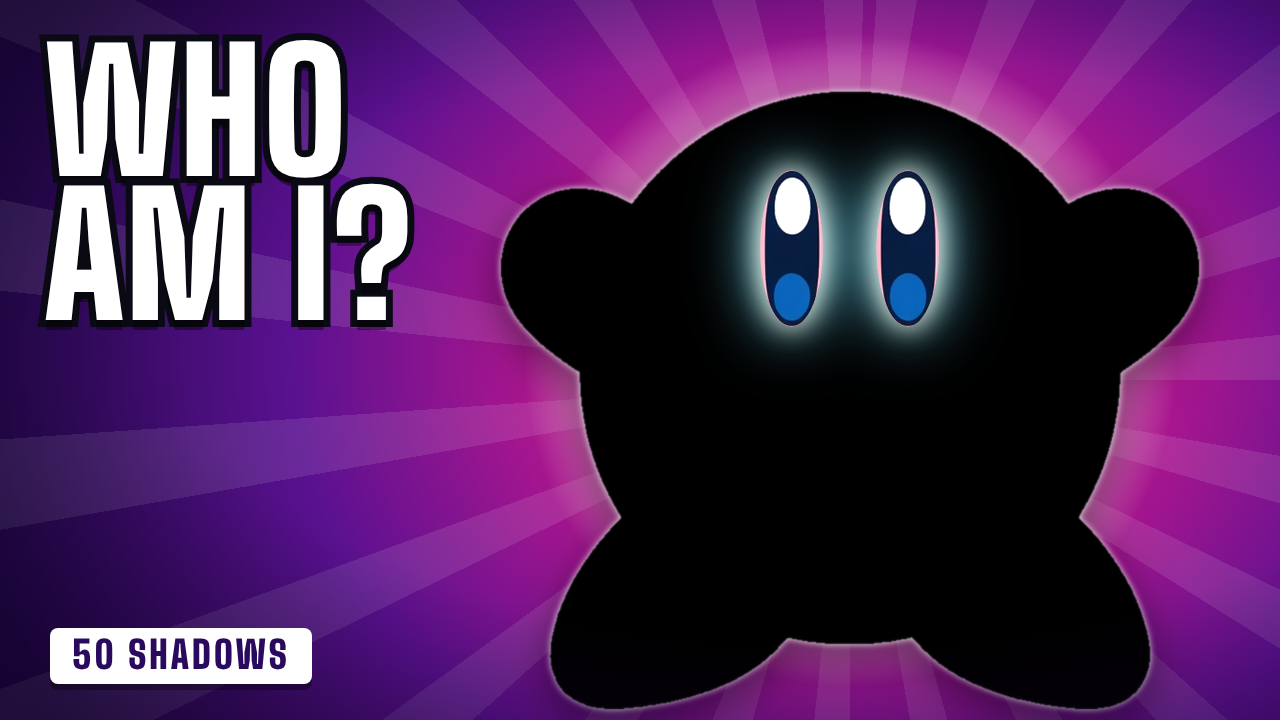
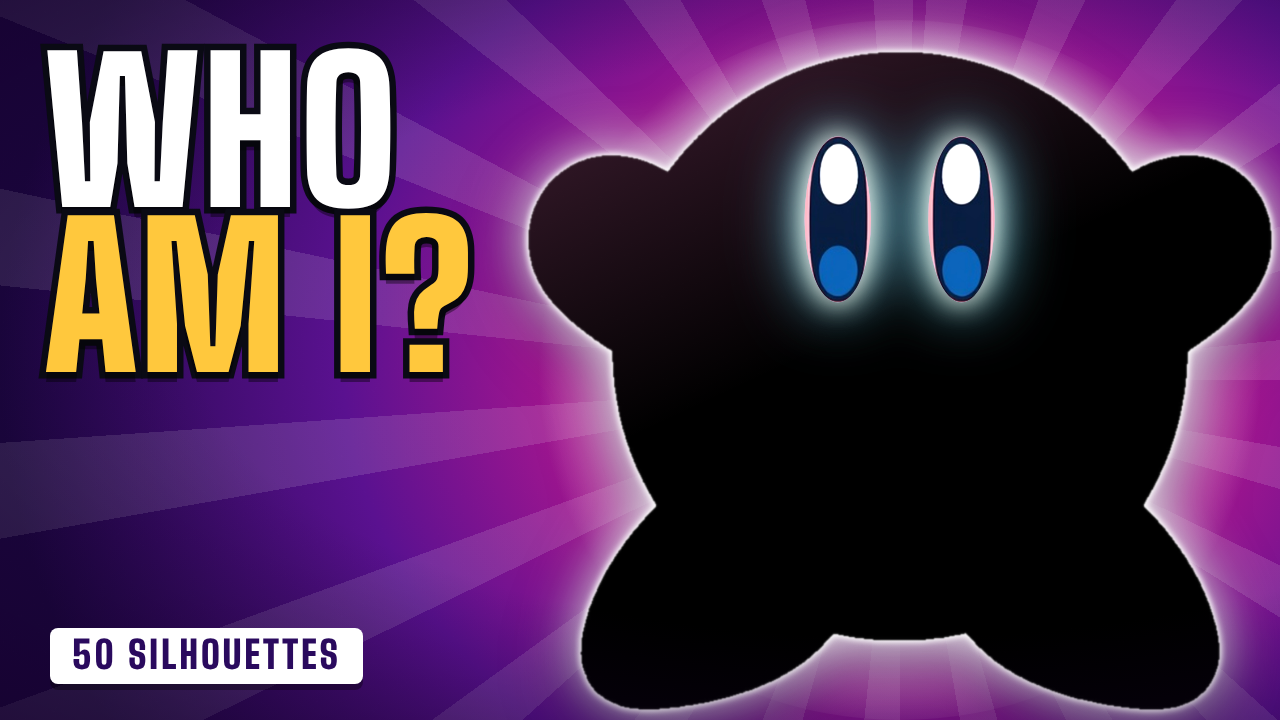
Redesign all 3 thumbnails: GAMERS ONLY? (colour/silhouette split), WHO AM I? (bigger Kirby + headline), NAME ALL 50? (inner sheen, tighter eyes); unified 50 SILHOUETTES tag

diff --git a/src/thumbnail/Thumbnails2.jsx b/src/thumbnail/Thumbnails2.jsx
@@ -2,7 +2,7 @@ import React from "react";
 import { AbsoluteFill, Img, staticFile, continueRender, delayRender } from "remotion";
 
 // Psychology-driven thumbnail set (1280x720) for "Guess the Game Character".
-//  P1 "95% FAIL"    loss aversion + staring face + pattern interrupt (yellow)  -> Sans
+//  P1 "GAMERS ONLY?" colour/silhouette split + staring face (yellow)           -> Sans
 //  P2 "WHO AM I?"   curiosity gap + gaze (only the eyes are revealed)          -> Kirby
 //  P3 "NAME ALL 50?" self-test + glowing-eye clue + ring on the cannon (v2)    -> Mega Man
 // Max 3 words of main text each; one focal point; specific number; saturated colour.
@@ -26,25 +26,40 @@ const Tag = ({ children, bg = "#0a0a14", color = "#fff" }) => (
 );
 const full = { position: "absolute", inset: 0, width: "100%", height: "100%", objectFit: "contain" };
 
+const OUT = "drop-shadow(0 0 3px #fff) drop-shadow(0 0 3px #fff)";
+// Black silhouette with an outer glow plus a subtle inner sheen so it reads as a shape, not a flat blob.
+const Sil = ({ src, glow = "rgba(255,140,0,.95)", sheen = "rgba(120,170,255,.38)" }) => (
+  <>
+    <Img src={src} style={{ ...full, filter: `brightness(0) ${OUT} drop-shadow(0 0 26px ${glow}) drop-shadow(0 16px 20px rgba(0,0,40,.5))` }} />
+    <div style={{ position: "absolute", inset: 0, WebkitMaskImage: `url(${src})`, WebkitMaskSize: "100% 100%", WebkitMaskRepeat: "no-repeat", background: `linear-gradient(155deg, ${sheen} 0%, rgba(0,0,0,0) 48%)` }} />
+  </>
+);
+
 // ---------------------------------------------------------------- P1
 export const ThumbP1 = ({ main = "sans.png" }) => {
   useFont();
-  const cx = 1000;
+  const cx = 930, B = 780, left = cx - B / 2, top = -24;
   return (
     <AbsoluteFill style={{ background: YELLOW, fontFamily: FONT, overflow: "hidden" }}>
       <AbsoluteFill style={{ background: `repeating-conic-gradient(from 0deg at ${cx}px 330px,#FFE14D 0deg 7deg,#FFB400 7deg 14deg)` }} />
-      <AbsoluteFill style={{ background: `radial-gradient(620px 620px at ${cx}px 340px,rgba(255,255,255,.85),rgba(255,255,255,0) 70%)` }} />
-      {/* staring face */}
-      <div style={{ position: "absolute", left: cx - 500, top: -50, width: 1000, height: 1000 }}>
-        <Img src={img(main)} style={{ ...full, filter: "drop-shadow(0 0 3px #0a0a14) drop-shadow(0 16px 0 rgba(0,0,0,.28))" }} />
+      <AbsoluteFill style={{ background: `radial-gradient(640px 640px at ${cx}px 340px,rgba(255,255,255,.9),rgba(255,255,255,0) 70%)` }} />
+      <div style={{ position: "absolute", left, top, width: B, height: B }}>
+        {/* left half: real colours */}
+        <Img src={img(main)} style={{ ...full, clipPath: "inset(0 50% 0 0)", filter: "drop-shadow(0 0 3px #0a0a14) drop-shadow(0 16px 0 rgba(0,0,0,.28))" }} />
+        {/* right half: silhouette */}
+        <div style={{ position: "absolute", inset: 0, clipPath: "inset(0 0 0 50%)" }}>
+          <Sil src={img(main)} glow="rgba(255,255,255,.9)" sheen="rgba(255,255,255,.28)" />
+        </div>
+        {/* seam */}
+        <div style={{ position: "absolute", left: "50%", top: "5%", bottom: "3%", width: 7, marginLeft: -3, background: "#fff", borderRadius: 4, boxShadow: "0 0 18px 7px rgba(255,255,255,.95), 0 0 2px 2px #0a0a14" }} />
       </div>
-      <AbsoluteFill style={{ background: "radial-gradient(ellipse at 62% 45%,rgba(0,0,0,0) 55%,rgba(60,30,0,.45) 100%)" }} />
+      <AbsoluteFill style={{ background: "radial-gradient(ellipse at 70% 45%,rgba(0,0,0,0) 55%,rgba(60,30,0,.45) 100%)" }} />
       {grain}
-      <div style={{ position: "absolute", left: 44, top: 70, transform: "rotate(-4deg)", transformOrigin: "0 0" }}>
-        <div style={{ fontWeight: 900, fontSize: 340, lineHeight: .8, color: "#fff", letterSpacing: "-.01em", ...stroke(20), textShadow: "0 16px 0 rgba(0,0,0,.35)" }}>95%</div>
-        <div style={{ display: "inline-block", marginTop: 30, padding: "4px 36px 12px", background: RED, color: "#fff", fontWeight: 900, fontSize: 210, lineHeight: .86, letterSpacing: ".03em", transform: "skewX(-8deg)", boxShadow: "0 14px 0 rgba(0,0,0,.4)", border: "8px solid #0a0a14" }}>FAIL</div>
+      <div style={{ position: "absolute", left: 44, top: 58, transform: "rotate(-4deg)", transformOrigin: "0 0" }}>
+        <div style={{ fontWeight: 900, fontSize: 218, lineHeight: .8, color: "#fff", letterSpacing: "-.005em", ...stroke(14), textShadow: "0 14px 0 rgba(0,0,0,.35)" }}>GAMERS</div>
+        <div style={{ display: "inline-block", marginTop: 34, padding: "4px 40px 12px", background: RED, color: "#fff", fontWeight: 900, fontSize: 200, lineHeight: .86, letterSpacing: ".03em", transform: "skewX(-8deg)", boxShadow: "0 14px 0 rgba(0,0,0,.4)", border: "8px solid #0a0a14" }}>ONLY?</div>
       </div>
-      <Tag>50 GAME CHARACTERS</Tag>
+      <Tag>50 SILHOUETTES</Tag>
     </AbsoluteFill>
   );
 };
@@ -52,45 +67,43 @@ export const ThumbP1 = ({ main = "sans.png" }) => {
 // ---------------------------------------------------------------- P2
 export const ThumbP2 = ({ main = "kirby.png" }) => {
   useFont();
-  const cx = 850, B = 780, left = cx - B / 2, top = -30;
+  const cx = 900, B = 830, left = cx - B / 2, top = -77;
   const eye = (x) => ({ ...full, clipPath: `ellipse(4.0% 10.0% at ${x}% 35.7%)` });
   return (
     <AbsoluteFill style={{ background: "#2a0a5e", fontFamily: FONT, overflow: "hidden" }}>
       <AbsoluteFill style={{ background: `radial-gradient(900px 760px at ${cx}px 360px,#ff3fa4 0%,#c2188f 28%,#5a1190 62%,#1b0640 100%)` }} />
-      <AbsoluteFill style={{ background: `repeating-conic-gradient(from 4deg at ${cx}px 380px,rgba(255,255,255,.10) 0deg 6deg,rgba(255,255,255,0) 6deg 16deg)` }} />
-      <div style={{ position: "absolute", left: cx - 330, top: 30, width: 660, height: 660, borderRadius: "50%", background: "radial-gradient(circle,#fff 0%,#ffe3f4 38%,rgba(255,200,235,0) 70%)" }} />
+      <AbsoluteFill style={{ background: `repeating-conic-gradient(from 4deg at ${cx}px 380px,rgba(255,255,255,.12) 0deg 6deg,rgba(255,255,255,0) 6deg 16deg)` }} />
+      <div style={{ position: "absolute", left: cx - 380, top: 20, width: 760, height: 700, borderRadius: "50%", background: "radial-gradient(circle,#fff 0%,#ffe3f4 38%,rgba(255,200,235,0) 70%)" }} />
       <div style={{ position: "absolute", left, top, width: B, height: B }}>
-        <Img src={img(main)} style={{ ...full, filter: "brightness(0) drop-shadow(0 0 3px #fff) drop-shadow(0 14px 22px rgba(0,0,0,.5))" }} />
+        <Sil src={img(main)} glow="rgba(255,255,255,.95)" sheen="rgba(255,120,200,.34)" />
         {/* only the eyes are revealed, with a glow */}
         <div style={{ position: "absolute", inset: 0, filter: "drop-shadow(0 0 14px #fff) drop-shadow(0 0 30px rgba(120,200,255,.9)) saturate(1.3) brightness(1.1)" }}>
           <Img src={img(main)} style={eye(42.5)} />
           <Img src={img(main)} style={eye(57.4)} />
         </div>
       </div>
-      <AbsoluteFill style={{ background: "radial-gradient(ellipse at 65% 48%,rgba(0,0,0,0) 55%,rgba(20,0,40,.6) 100%)" }} />
+      <AbsoluteFill style={{ background: "radial-gradient(ellipse at 70% 48%,rgba(0,0,0,0) 55%,rgba(20,0,40,.6) 100%)" }} />
       {grain}
-      <div style={{ position: "absolute", left: 44, top: 40 }}>
-        <div style={{ fontWeight: 900, fontSize: 168, lineHeight: .86, color: "#fff", letterSpacing: ".01em", ...stroke(14), textShadow: "0 10px 0 rgba(0,0,0,.4)" }}>WHO<br />AM I?</div>
+      <div style={{ position: "absolute", left: 44, top: 50 }}>
+        <div style={{ fontWeight: 900, fontSize: 196, lineHeight: .84, color: "#fff", letterSpacing: ".01em", ...stroke(13), textShadow: "0 10px 0 rgba(0,0,0,.4)" }}>WHO<br /><span style={{ color: GOLD }}>AM I?</span></div>
       </div>
-      <Tag bg="#fff" color="#2a0a5e">50 SHADOWS</Tag>
+      <Tag bg="#fff" color="#2a0a5e">50 SILHOUETTES</Tag>
     </AbsoluteFill>
   );
 };
 
 // ---------------------------------------------------------------- P3
-// v2: whole character in frame, ring only (no arrow), smaller headline, higher-stakes text,
-// glowing eyes as the "almost know it" clue, and a "50 SILHOUETTES" tag.
+// v3: whole character, ring only, glowing-eye clue, higher-stakes text, inner sheen on the silhouette.
 export const ThumbP3 = ({ main = "mega-man.png" }) => {
   useFont();
   const B = 790, left = 585, top = -36;
-  const eye = (x) => ({ ...full, clipPath: `ellipse(2.9% 3.5% at ${x}% 25.6%)` });
+  const eye = (x) => ({ ...full, clipPath: `ellipse(2.5% 3.1% at ${x}% 25.6%)` });
   return (
     <AbsoluteFill style={{ background: "#0095ff", fontFamily: FONT, overflow: "hidden" }}>
       <AbsoluteFill style={{ background: "radial-gradient(900px 800px at 960px 360px,#4be3ff 0%,#12b4ff 34%,#0071e0 70%,#003a8c 100%)" }} />
       <AbsoluteFill style={{ background: "repeating-conic-gradient(from 0deg at 960px 380px,rgba(255,255,255,.16) 0deg 6deg,rgba(255,255,255,0) 6deg 15deg)" }} />
       <div style={{ position: "absolute", left, top, width: B, height: B }}>
-        <Img src={img(main)} style={{ ...full, filter: "brightness(0) drop-shadow(0 0 3px #fff) drop-shadow(0 0 3px #fff) drop-shadow(0 0 26px rgba(255,140,0,.95)) drop-shadow(0 16px 20px rgba(0,0,40,.5))" }} />
-        {/* only the eyes are revealed, with a glow */}
+        <Sil src={img(main)} />
         <div style={{ position: "absolute", inset: 0, filter: "drop-shadow(0 0 10px #fff) drop-shadow(0 0 24px rgba(120,230,255,.95)) saturate(1.3) brightness(1.15)" }}>
           <Img src={img(main)} style={eye(46.9)} />
           <Img src={img(main)} style={eye(54.8)} />
@@ -98,7 +111,6 @@ export const ThumbP3 = ({ main = "mega-man.png" }) => {
       </div>
       <AbsoluteFill style={{ background: "radial-gradient(ellipse at 70% 48%,rgba(0,0,0,0) 55%,rgba(0,20,60,.6) 100%)" }} />
       {grain}
-      {/* ring on the key spot (arm cannon) */}
       <svg width="1280" height="720" style={{ position: "absolute", inset: 0 }}>
         <defs><filter id="sh"><feDropShadow dx="0" dy="5" stdDeviation="0" floodColor="#000" floodOpacity=".45" /></filter></defs>
         <g filter="url(#sh)">
